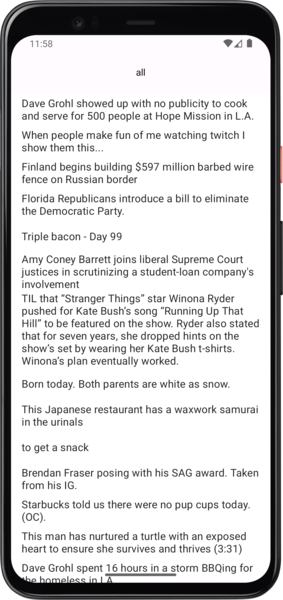
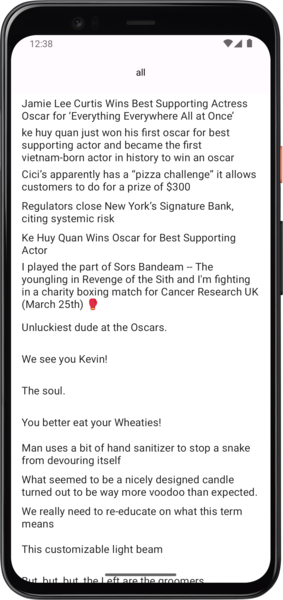
[Shared/Android] Include actual invocation of Reddit API from shared module

Changed region(s): [[0.0565, 0.15, 0.9329, 0.99], [0.1131, 0.06, 0.1413, 0.09]]

diff --git a/android/src/main/kotlin/net/rafaeltoledo/reddit/android/feature/subreddit/SubRedditViewModel.kt b/android/src/main/kotlin/net/rafaeltoledo/reddit/android/feature/subreddit/SubRedditViewModel.kt
@@ -7,9 +7,12 @@ import dagger.hilt.android.lifecycle.HiltViewModel
 import kotlinx.coroutines.flow.Flow
 import kotlinx.coroutines.flow.SharingStarted
 import kotlinx.coroutines.flow.StateFlow
+import kotlinx.coroutines.flow.flow
 import kotlinx.coroutines.flow.flowOf
 import kotlinx.coroutines.flow.stateIn
 import net.rafaeltoledo.reddit.android.feature.subreddit.navigation.SubRedditArgs
+import net.rafaeltoledo.reddit.api.RedditClient
+import net.rafaeltoledo.reddit.api.model.RedditObject
 import javax.inject.Inject
 
 @HiltViewModel
@@ -17,6 +20,7 @@ class SubRedditViewModel @Inject constructor(
   savedStateHandle: SavedStateHandle,
 ) : ViewModel() {
 
+  private val client = RedditClient()
   private val subRedditArgs: SubRedditArgs = SubRedditArgs(savedStateHandle)
 
   val subRedditUiState: StateFlow<SubRedditUiState> = subRedditUiState(
@@ -30,36 +34,13 @@ class SubRedditViewModel @Inject constructor(
   private fun subRedditUiState(
     subRedditName: String,
   ): Flow<SubRedditUiState> {
-    return flowOf(
-      SubRedditUiState.Success(
-        subRedditName,
-        listOf( // Mock data
-          "Dave Grohl showed up with no publicity to cook and serve for 500 people at Hope Mission in L.A.",
-          "When people make fun of me watching twitch I show them this...",
-          "Finland begins building \$597 million barbed wire fence on Russian border",
-          "Florida Republicans introduce a bill to eliminate the Democratic Party.",
-          "Triple bacon - Day 99",
-          "Amy Coney Barrett joins liberal Supreme Court justices in scrutinizing a student-loan company's " +
-            "involvement in one of the lawsuits blocking Biden's debt relief",
-          "TIL that “Stranger Things” star Winona Ryder pushed for Kate Bush’s song “Running Up That Hill” to " +
-            "be featured on the show. Ryder also stated that for seven years, she dropped hints on the show’s " +
-            "set by wearing her Kate Bush t-shirts. Winona’s plan eventually worked.",
-          "Born today. Both parents are white as snow.",
-          "This Japanese restaurant has a waxwork samurai in the urinals",
-          "to get a snack",
-          "Brendan Fraser posing with his SAG award. Taken from his IG.",
-          "Starbucks told us there were no pup cups today. (OC).",
-          "This man has nurtured a turtle with an exposed heart to ensure she survives and thrives (3:31)",
-          "Dave Grohl spent 16 hours in a storm BBQing for the homeless in LA",
-          "me irl",
-          "Woman is detained for wearing a bikini on a beach",
-        ),
-      )
-    )
+    return flow {
+      emit(SubRedditUiState.Success(subRedditName, client.subreddit(subRedditName).children))
+    }
   }
 }
 
 sealed interface SubRedditUiState {
-  data class Success(val subRedditName: String, val comments: List<String>) : SubRedditUiState
+  data class Success(val subRedditName: String, val comments: List<RedditObject>) : SubRedditUiState
   object Loading : SubRedditUiState
 }

diff --git a/shared/src/commonMain/kotlin/net/rafaeltoledo/reddit/api/RedditClient.kt b/shared/src/commonMain/kotlin/net/rafaeltoledo/reddit/api/RedditClient.kt
@@ -1,0 +1,72 @@
+package net.rafaeltoledo.reddit.api
+
+import io.github.aakira.napier.Napier
+import io.ktor.client.HttpClient
+import io.ktor.client.call.body
+import io.ktor.client.plugins.contentnegotiation.ContentNegotiation
+import io.ktor.client.plugins.logging.DEFAULT
+import io.ktor.client.plugins.logging.LogLevel
+import io.ktor.client.plugins.logging.Logger
+import io.ktor.client.plugins.logging.Logging
+import io.ktor.client.request.get
+import io.ktor.http.ContentType
+import io.ktor.http.contentType
+import io.ktor.http.isSuccess
+import io.ktor.serialization.kotlinx.json.json
+import kotlinx.serialization.json.Json
+import kotlinx.serialization.modules.SerializersModule
+import kotlinx.serialization.modules.polymorphic
+import net.rafaeltoledo.reddit.api.model.RedditComment
+import net.rafaeltoledo.reddit.api.model.RedditLink
+import net.rafaeltoledo.reddit.api.model.RedditListing
+import net.rafaeltoledo.reddit.api.model.RedditObject
+
+class RedditClient {
+
+  private val httpClient: HttpClient = buildHttpClient()
+
+  suspend fun subreddit(subreddit: String): RedditListing {
+    val response = httpClient.get("${API_HOST}/r/$subreddit/hot.json") {
+      contentType(ContentType.Application.Json)
+    }
+
+    if (response.status.isSuccess()) {
+      val body: RedditObject = response.body()
+      return body as RedditListing
+    }
+
+    error("Request failed with (${response.status})")
+  }
+
+  private companion object {
+    const val API_HOST = "https://api.reddit.com"
+  }
+}
+
+private fun buildHttpClient(json: Json = buildJson()): HttpClient {
+  return HttpClient {
+    install(ContentNegotiation) {
+      json(json)
+    }
+
+    install(Logging) {
+      logger = Logger.DEFAULT
+      level = LogLevel.BODY
+    }
+  }
+}
+
+private fun buildJson(): Json {
+  val redditModule = SerializersModule {
+    polymorphic(RedditObject::class) {
+      subclass(RedditListing::class, RedditListing.serializer())
+      subclass(RedditComment::class, RedditComment.serializer())
+      subclass(RedditLink::class, RedditLink.serializer())
+    }
+  }
+
+  return Json {
+    ignoreUnknownKeys = true
+    serializersModule = redditModule
+  }
+}

diff --git a/shared/src/commonMain/kotlin/net/rafaeltoledo/reddit/data/RedditObjectSerializer.kt b/shared/src/commonMain/kotlin/net/rafaeltoledo/reddit/data/RedditObjectSerializer.kt
@@ -1,0 +1,47 @@
+package net.rafaeltoledo.reddit.data
+
+import kotlinx.serialization.InternalSerializationApi
+import kotlinx.serialization.KSerializer
+import kotlinx.serialization.Serializable
+import kotlinx.serialization.descriptors.SerialDescriptor
+import kotlinx.serialization.encoding.Decoder
+import kotlinx.serialization.encoding.Encoder
+import kotlinx.serialization.json.JsonDecoder
+import kotlinx.serialization.json.JsonElement
+import kotlinx.serialization.json.jsonObject
+import kotlinx.serialization.json.jsonPrimitive
+import kotlinx.serialization.serializer
+import net.rafaeltoledo.reddit.api.model.RedditKind
+import net.rafaeltoledo.reddit.api.model.RedditObject
+
+@OptIn(InternalSerializationApi::class)
+class RedditObjectSerializer : KSerializer<RedditObject> {
+
+  override val descriptor: SerialDescriptor = RedditObjectSurrogate.serializer().descriptor
+
+  override fun deserialize(decoder: Decoder): RedditObject {
+    if (decoder is JsonDecoder) {
+      decoder.decodeJsonElement().let { jsonElement ->
+        val rawKind = jsonElement.jsonObject["kind"]?.jsonPrimitive?.content
+        val kind = RedditKind.values().find { it.key == rawKind }
+          ?: error("Unexpected Reddit API object: $rawKind")
+
+        val rawData: JsonElement = jsonElement.jsonObject["data"]
+          ?: error("Cannot find data key in the JSON!")
+        return decoder.json.decodeFromJsonElement(kind.kClass.serializer(), rawData)
+      }
+    }
+
+    throw UnsupportedOperationException("Unexpected serialization format. Only JSON is supported!")
+  }
+
+  override fun serialize(encoder: Encoder, value: RedditObject) {
+    TODO()
+  }
+}
+
+@Serializable
+data class RedditObjectSurrogate(
+  val kind: RedditKind,
+  val data: RedditObject,
+)

diff --git a/android/src/main/kotlin/net/rafaeltoledo/reddit/android/feature/subreddit/SubRedditScreen.kt b/android/src/main/kotlin/net/rafaeltoledo/reddit/android/feature/subreddit/SubRedditScreen.kt
@@ -1,6 +1,8 @@
 package net.rafaeltoledo.reddit.android.feature.subreddit
 
+import androidx.compose.foundation.layout.Box
 import androidx.compose.foundation.layout.Column
+import androidx.compose.foundation.layout.fillMaxSize
 import androidx.compose.foundation.lazy.LazyColumn
 import androidx.compose.foundation.lazy.items
 import androidx.compose.material.CircularProgressIndicator
@@ -11,9 +13,12 @@ import androidx.compose.material3.CenterAlignedTopAppBar
 import androidx.compose.material3.ExperimentalMaterial3Api
 import androidx.compose.runtime.Composable
 import androidx.compose.runtime.getValue
+import androidx.compose.ui.Alignment
 import androidx.compose.ui.Modifier
 import androidx.hilt.navigation.compose.hiltViewModel
 import androidx.lifecycle.compose.collectAsStateWithLifecycle
+import net.rafaeltoledo.reddit.api.model.RedditLink
+import net.rafaeltoledo.reddit.api.model.RedditObject
 
 @Composable
 fun SubRedditRoute(
@@ -36,7 +41,12 @@ fun SubRedditScreen(
 ) {
   when (subRedditUiState) {
     SubRedditUiState.Loading -> {
-      CircularProgressIndicator()
+      Box(
+        contentAlignment = Alignment.Center,
+        modifier = Modifier.fillMaxSize()
+      ) {
+        CircularProgressIndicator()
+      }
     }
 
     is SubRedditUiState.Success -> {
@@ -50,11 +60,18 @@ fun SubRedditScreen(
         LazyColumn {
           items(subRedditUiState.comments) {
             ListItem(
-              text = { Text(it) }
+              text = { Text(it.title()) }
             )
           }
         }
       }
     }
+  }
+}
+
+private fun RedditObject.title(): String {
+  return when (this) {
+    is RedditLink -> this.title
+    else -> ""
   }
 }

diff --git a/shared/src/commonMain/kotlin/net/rafaeltoledo/reddit/api/model/RedditObject.kt b/shared/src/commonMain/kotlin/net/rafaeltoledo/reddit/api/model/RedditObject.kt
@@ -1,0 +1,28 @@
+package net.rafaeltoledo.reddit.api.model
+
+import kotlinx.serialization.Serializable
+import net.rafaeltoledo.reddit.data.RedditObjectSerializer
+
+@Serializable(with = RedditObjectSerializer::class)
+sealed interface RedditObject
+
+@Serializable
+data class RedditListing(
+  val after: String,
+  val before: String?,
+  val dist: Int,
+  val modhash: String,
+  val children: List<RedditObject>,
+) : RedditObject
+
+@Serializable
+data class RedditComment(
+  val body: String,
+) : RedditObject
+
+@Serializable
+data class RedditLink(
+  val clicked: Boolean,
+  val subreddit: String,
+  val title: String,
+) : RedditObject

diff --git a/shared/src/commonMain/kotlin/net/rafaeltoledo/reddit/api/model/RedditKind.kt b/shared/src/commonMain/kotlin/net/rafaeltoledo/reddit/api/model/RedditKind.kt
@@ -1,0 +1,9 @@
+package net.rafaeltoledo.reddit.api.model
+
+import kotlin.reflect.KClass
+
+enum class RedditKind(val key: String, val kClass: KClass<out RedditObject>) {
+  COMMENT("t1", RedditComment::class),
+  LINK("t3", RedditLink::class),
+  LISTING("Listing", RedditListing::class),
+}
